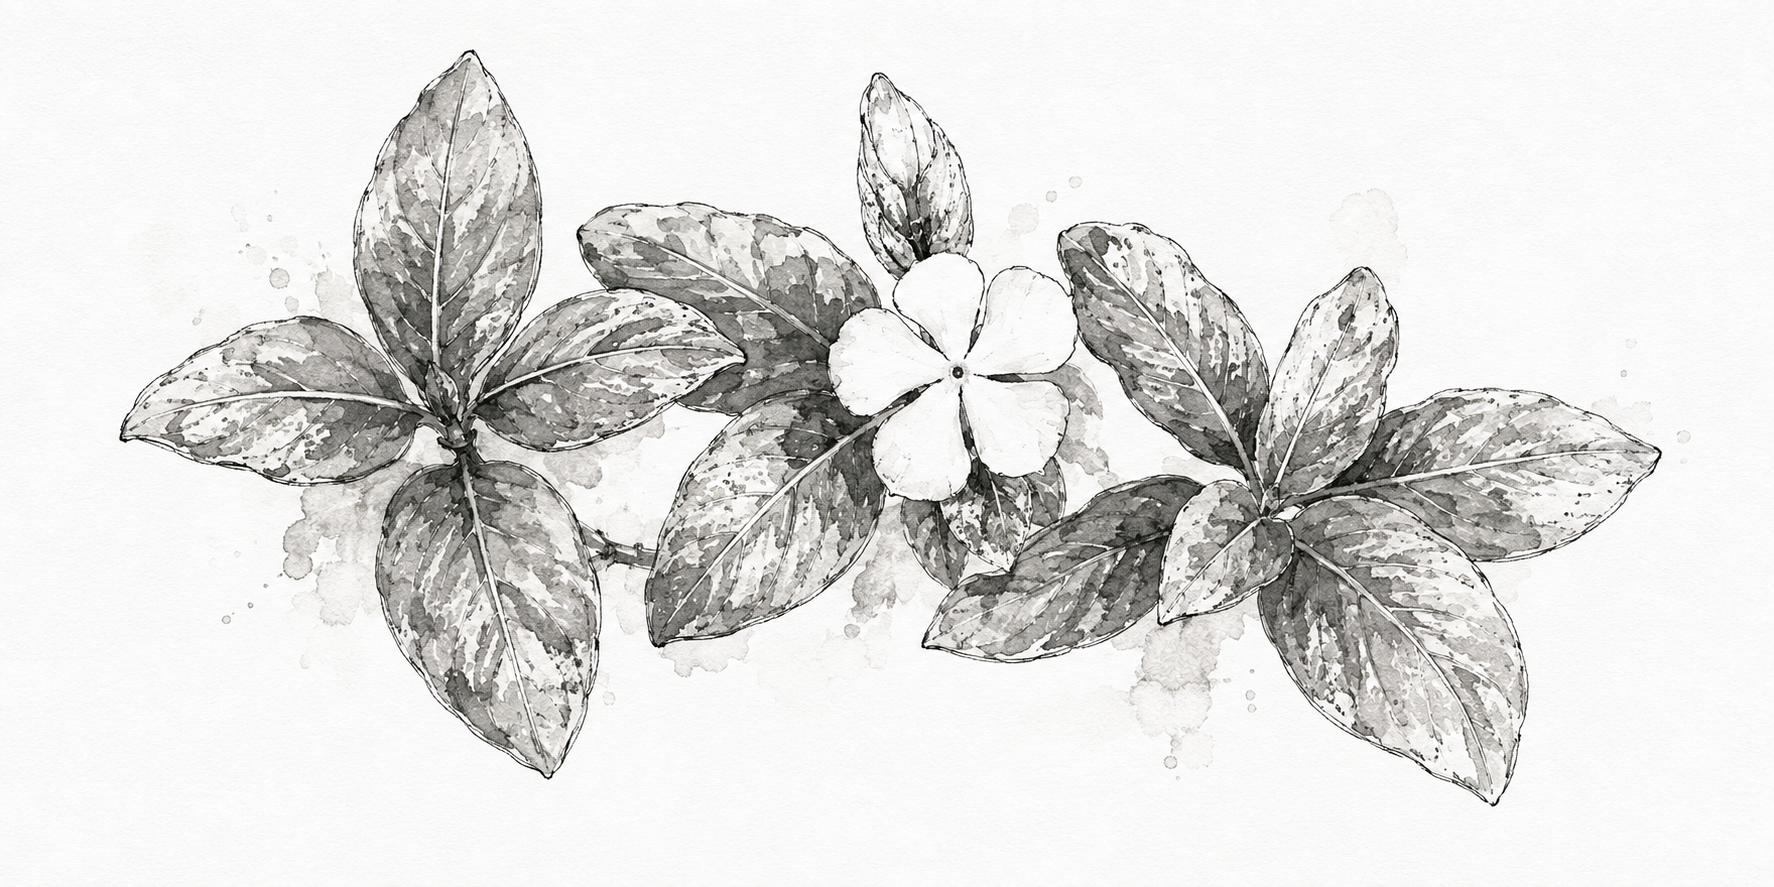
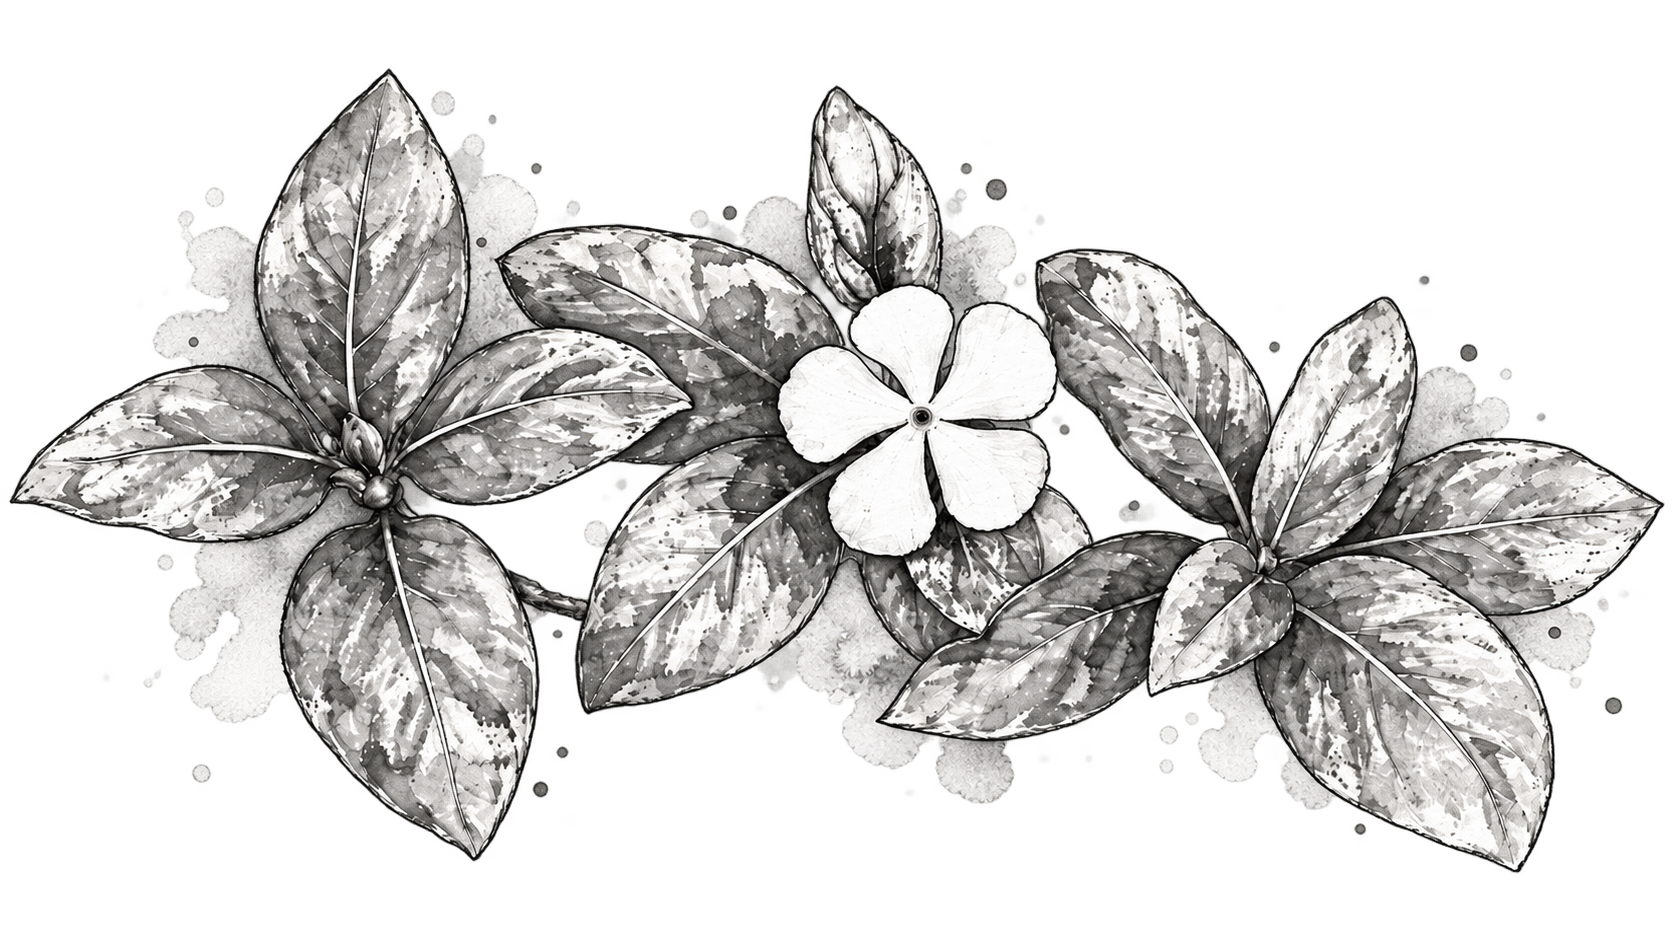
Milos BG ✿

diff --git a/app/(root)/the-hoop/ClientPage.tsx b/app/(root)/the-hoop/ClientPage.tsx
@@ -258,7 +258,7 @@ const Cart = () => {
               <p className="uppercase text-[11px] tracking-widest font-bold text-mbg-green py-3">
                 Empty Hoop...
               </p>
-              <div>
+              <div className="min-h-[50%] bg-mbg-white/90 p-10">
               <Image
   src={MBG}
   alt="Grind Until Achieve"
